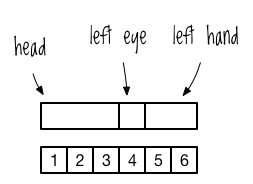
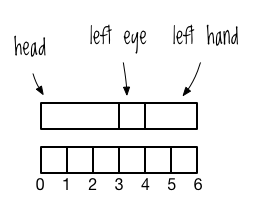
errata

diff --git a/content/cftbat/organization.html b/content/cftbat/organization.html
@@ -268,7 +268,7 @@ kind: chapter
 <span class="tok-p">(</span><span class="tok-kd">defn </span><span class="tok-nv">latlng-&gt;point</span>
   <span class="tok-s">"Convert lat/lng map to comma-separated string"</span> 
   <span class="tok-p">[</span><span class="tok-nv">latlng</span><span class="tok-p">]</span>
-  <span class="tok-p">(</span><span class="tok-nb">str </span><span class="tok-p">(</span><span class="tok-ss">:lng</span> <span class="tok-nv">latlng</span><span class="tok-p">)</span> <span class="tok-s">","</span> <span class="tok-p">(</span><span class="tok-ss">:lat</span> <span class="tok-nv">latlng</span><span class="tok-p">)))</span>
+  <span class="tok-p">(</span><span class="tok-nb">str </span><span class="tok-p">(</span><span class="tok-ss">:lat</span> <span class="tok-nv">latlng</span><span class="tok-p">)</span> <span class="tok-s">","</span> <span class="tok-p">(</span><span class="tok-ss">:lng</span> <span class="tok-nv">latlng</span><span class="tok-p">)))</span>
 
 <span class="tok-p">(</span><span class="tok-kd">defn </span><span class="tok-nv">points</span>
   <span class="tok-p">[</span><span class="tok-nv">locations</span><span class="tok-p">]</span>
@@ -575,18 +575,19 @@ kind: chapter
        <span class="tok-p">(</span><span class="tok-nf">scale</span> <span class="tok-nv">width</span> <span class="tok-nv">height</span><span class="tok-p">)))</span>
 
 <span class="tok-p">(</span><span class="tok-kd">defn </span><span class="tok-nv">xml</span>
-  <span class="tok-s">"svg 'template', which also flips the coordinate system"</span>
+  <span class="tok-s">&quot;svg &#39;template&#39;, which also flips the coordinate system&quot;</span>
   <span class="tok-p">[</span><span class="tok-nv">width</span> <span class="tok-nv">height</span> <span class="tok-nv">locations</span><span class="tok-p">]</span>
-  <span class="tok-p">(</span><span class="tok-nb">str </span><span class="tok-s">"&lt;svg height=\""</span> <span class="tok-nv">height</span> <span class="tok-s">"\" width=\""</span> <span class="tok-nv">width</span> <span class="tok-s">"\"&gt;"</span>
-       <span class="tok-c1">;; These two &lt;g&gt; tags flip the coordinate system</span>
-       <span class="tok-s">"&lt;g transform=\"translate(0,"</span> <span class="tok-nv">height</span> <span class="tok-s">")\"&gt;"</span>
-       <span class="tok-s">"&lt;g transform=\"scale(1,-1)\"&gt;"</span>
+  <span class="tok-p">(</span><span class="tok-nb">str </span><span class="tok-s">&quot;&lt;svg height=\&quot;&quot;</span> <span class="tok-nv">height</span> <span class="tok-s">&quot;\&quot; width=\&quot;&quot;</span> <span class="tok-nv">width</span> <span class="tok-s">&quot;\&quot;&gt;&quot;</span>
+       <span class="tok-c1">;; These two &lt;g&gt; tags change the coordinate system so that</span>
+       <span class="tok-c1">;; 0,0 is in the lower-left corner, instead of SVG&#39;s default</span>
+       <span class="tok-c1">;; upper-left corner</span>
+       <span class="tok-s">&quot;&lt;g transform=\&quot;translate(0,&quot;</span> <span class="tok-nv">height</span> <span class="tok-s">&quot;)\&quot;&gt;&quot;</span>
+       <span class="tok-s">&quot;&lt;g transform=\&quot;rotate(-90)\&quot;&gt;&quot;</span>
        <span class="tok-p">(</span><span class="tok-nb">-&gt; </span><span class="tok-p">(</span><span class="tok-nf">transform</span> <span class="tok-nv">width</span> <span class="tok-nv">height</span> <span class="tok-nv">locations</span><span class="tok-p">)</span>
            <span class="tok-nv">points</span>
            <span class="tok-nv">line</span><span class="tok-p">)</span>
-       <span class="tok-s">"&lt;/g&gt;&lt;/g&gt;"</span>
-       <span class="tok-s">"&lt;/svg&gt;"</span><span class="tok-p">))</span>
-</code></pre></div></div>
+       <span class="tok-s">&quot;&lt;/g&gt;&lt;/g&gt;&quot;</span>
+       <span class="tok-s">&quot;&lt;/svg&gt;&quot;</span><span class="tok-p">))</span></code></pre></div></div>
 
       <p class="Body"><span>The functions here are pretty straightforward. They just take </span><code>{:lat x :lng y}</code><span> maps and transform them so that an SVG can be created. </span><code>latlng-&gt;point</code><span> returns a string that can be used to define a point in SVG markup. </span><code>points</code><span> converts a seq of </span><code>lat</code><span>/</span><code>lng</code><span> maps into a space-separated </span>string of points. <code>line</code> returns the SVG markup for a line that connects all given space-separated strings of points. <code>transform</code> takes a seq of locations, <span>translates them so they start at the point (0, 0), and scales them to the given width and height. Finally, </span><code>xml</code><span> produces the markup for displaying the given locations using SVG.</span></p>
       <p class="Body">With <em>svg.clj</em> all coded up, now make <em>core.clj</em> look like this:</p>

diff --git a/content/cftbat/basic-emacs.html b/content/cftbat/basic-emacs.html
@@ -27,9 +27,9 @@ kind: chapter
       <p class="BodyFirst"><span>I’ve created a repository of</span><span> all the files you need to configure Emacs for Clojure, available at <em><a href="https://github.com/flyingmachine/emacs-for-clojure">https://github.com/flyingmachine/emacs-for-clojure</a></em>. Do </span>the following to delete your existing Emacs configuration and install the Clojure-friendly one:</p>
       <ol class="List-1">
 	<li class="NumListA para-style-override-2">Close Emacs.</li>
-	<li class="NumListB">Delete <em>~/.emacs</em> or <em>~/.emacs.d</em> if they exist. This is where Emacs looks for configuration files, and deleting these files and directories will ensure that you start with a clean slate.</li>
+        <li class="NumListB">Delete <em>~/.emacs</em> or <em>~/.emacs.d</em> if they exist. (Windows users, your emacs files will probably live in <em>C:\Users\your_user_name\AppData\Roaming\</em>. So, for example, you would delete <em>C:\Users\jason\AppData\Roaming\.emacs.d</em>.) This is where Emacs looks for configuration files, and deleting these files and directories will ensure that you start with a clean slate.</li>
 	<li class="NumListB"><span>Download the Emacs configuration zip file from the book’s resource page and unzip it. Its contents should be a folder, </span><em>emacs-for-clojure-book1</em><span>. Run </span><span class="LiteralBold">mv path/to/emacs-for-</span><span class="LiteralBold">clojure</span><span class="LiteralBold">-book1 ~/.emacs.d</span><span>.</span></li>
-	<li class="NumListB">Create the file <em>~/.lein/profiles.clj</em> and add this line to it: </li>
+	<li class="NumListB">Create the file <em>~/.lein/profiles.clj</em> (Windows users, this is probably <em>C:\Users\your_user_name\.lein\profiles.clj</em>) and add this line to it: and add this line to it: </li>
       </ol>
       <div class="listingblock"><div class="content"><pre class="pygments highlight"><code data-lang="clojure" class="block"><span class="tok-p">{</span><span class="tok-ss">:user</span> <span class="tok-p">{</span><span class="tok-ss">:plugins</span> <span class="tok-p">[[</span><span class="tok-nv">cider/cider-nrepl</span> <span class="tok-s">"0.8.1"</span><span class="tok-p">]]}}</span> 
 </code></pre></div></div>
@@ -37,7 +37,7 @@ kind: chapter
       <ol class="List-1" start="5">
 	<li class="NumListC para-style-override-4">Open Emacs.</li>
       </ol>
-      <p class="Body">When you open Emacs, you should see a lot of activity as Emacs downloads a bunch of useful packages. Once the activity stops, go ahead and just quit Emacs, and then open it again. After you do so, you should see a window like the one in Figure 2-3.</p>
+      <p class="Body">When you open Emacs, you may see a lot of activity as Emacs downloads a bunch of useful packages. Once the activity stops, go ahead and just quit Emacs, and then open it again. (If you don't see any activity, that's OK! Quit and restart Emacs just for funsies.) After you do so, you should see a window like the one in Figure 2-3.</p>
       <img src="/assets/images/cftbat/basic-emacs/emacs-configged.png" />
       
 	<div class="caption">Figure 2-3: How Emacs looks after installing your sweet new configuration</div>

diff --git a/content/cftbat/do-things.html b/content/cftbat/do-things.html
@@ -1120,7 +1120,7 @@ kind: chapter
 	</div>
       </div>
       <p class="Body">Finally, one of these numbers is randomly chosen, and then we use <code>loop</code> at ➌ to find and return the body part that corresponds to the number. The loop does this by keeping track of the accumulated sizes of parts that we’ve checked and checking whether the accumulated size is greater than the target. I visualize this process as lining up the body parts with a row of numbered slots. After I line up a body part, I ask myself, “Have I reached the target yet?” If I have, that means the body part I just lined up was the one hit. Otherwise, I just keep lining up those parts.</p>
-      <p class="Body">For example, say that your list of parts is <em>head</em>, <em>left eye</em>, and <em>left hand</em>, like in Figure 3-1. After taking the first part, the head, the accumulated size is 3. The body part is hit if the accumulated size is greater than the target, so if the target is 0, 1, or 2, then the head was hit. Otherwise, you take the next part, the left eye, and increase the accumulated size to 4, yielding a hit if the target is 3. Similarly, the left hand gets hit if the target is 4 or 5. </p>
+      <p class="Body">For example, say that your list of parts is <em>head</em>, <em>left eye</em>, and <em>left hand</em>, like in Figure 3-1. After taking the first part, the head, the accumulated size is 3. The body part is hit when the accumulated sizes exceeds the target, so if the target is less than 3, then the head was hit. Otherwise, you take the next part, the left eye, and increase the accumulated size to 4, yielding a hit if the target is greater than or equal to 3 and less than 4. Similarly, the left hand gets hit if the target is greater than or equal to 4 and less than 6.</p>
       <p class="Body">Here are some sample runs of the <code>hit</code> function:</p>
       <div class="listingblock"><div class="content"><pre class="pygments highlight"><code data-lang="clojure" class="block"><span class="tok-p">(</span><span class="tok-nf">hit</span> <span class="tok-nv">asym-hobbit-body-parts</span><span class="tok-p">)</span>
 <span class="tok-c1">; =&gt; {:name "right-upper-arm", :size 3}</span>

diff --git a/content/cftbat/core-functions-in-depth.html b/content/cftbat/core-functions-in-depth.html
@@ -739,7 +739,7 @@ kind: chapter
        <span class="tok-nv">rows</span><span class="tok-p">))</span>
 </code></pre></div></div>
 
-      <p class="Body"><span>In this function, </span><code>map</code><span> transforms each row—vectors like </span><code>["Bella Swan" 0]</code><span>—</span>into a map by using <code>reduce</code> in a manner similar to the first example in “<code><a href="#2_2__reduce">reduce</a></code>” above. First, <code>map</code> creates a seq of key-value pairs like <code>([:name "Bella Swan"] [:glitter-index] 0)</code>. Then, <code>reduce</code><em> </em>builds up a map by associating a vamp key with a converted vamp value into <code>row-map</code>. Here’s the first row mapified:</p>
+      <p class="Body"><span>In this function, </span><code>map</code><span> transforms each row—vectors like </span><code>["Bella Swan" 0]</code><span>—</span>into a map by using <code>reduce</code> in a manner similar to the first example in “<code><a href="#2_2__reduce">reduce</a></code>” above. First, <code>map</code> creates a seq of key-value pairs like <code>([:name "Bella Swan"] [:glitter-index 0])</code>. Then, <code>reduce</code><em> </em>builds up a map by associating a vamp key with a converted vamp value into <code>row-map</code>. Here’s the first row mapified:</p>
       <div class="listingblock"><div class="content"><pre class="pygments highlight"><code data-lang="clojure" class="block"><span class="tok-p">(</span><span class="tok-nb">first </span><span class="tok-p">(</span><span class="tok-nf">mapify</span> <span class="tok-p">(</span><span class="tok-nb">parse </span><span class="tok-p">(</span><span class="tok-nb">slurp </span><span class="tok-nv">filename</span><span class="tok-p">))))</span>
 <span class="tok-c1">; =&gt; {:glitter-index 10, :name "Edward Cullen"}</span>
 </code></pre></div></div>

diff --git a/content/cftbat/zombie-metaphysics.html b/content/cftbat/zombie-metaphysics.html
@@ -566,8 +566,7 @@ kind: chapter
           <span class="tok-nv">.start</span>
           <span class="tok-nv">.join</span><span class="tok-p">))</span>
 </code></pre></div></div>
-
-      <p class="Body">Using <code>with-redefs</code> may be more appropriate than using <code>bindings</code> for setting up a test environment. It’s also more widely applicable, in that you can use it for any var, not just dynamic ones.</p>
+      <p class="Body"><code>with-redefs</code> can be used with any var, not just dynamic ones. Because it has has such far-reaching effects, you should only use it during testing. For example, you could use it to redefine a function that returns data from a network call, so that the function returns mock data without having to actually make a network request.</p>
       <p class="Body">Now you know all about vars! Try not to hurt yourself or anyone you know with them.</p>
       <h2>Stateless Concurrency and Parallelism with pmap</h2>
       <p class="BodyFirst"><span>So far, this chapter has focused on tools that are designed to mitigate the risks inherent in concurrent programming. You’ve learned about the </span><span>dangers</span><span> born of shared access to mutable state and how Clojure implements </span>a reconceptualization of state that helps you write concurrent programs safely.</p>

diff --git a/content/cftbat/functional-programming.html b/content/cftbat/functional-programming.html
@@ -595,7 +595,7 @@ kind: chapter
       
 	<div class="caption">Figure 5-4: A pegboard with the 4 position empty</div>
       
-      <p class="Body"><span>Given this board, positions 1, 6, and 11 have valid moves, but all </span>others don’t:</p>
+      <p class="Body"><span>Given this board, positions 1, 6, 11, and 13 have valid moves, but all </span>others don’t:</p>
       <div class="listingblock"><div class="content"><pre class="pygments highlight"><code data-lang="clojure" class="block"><span class="tok-p">(</span><span class="tok-nf">valid-moves</span> <span class="tok-nv">my-board</span> <span class="tok-mi">1</span><span class="tok-p">)</span>  <span class="tok-c1">; =&gt; {4 2}</span>
 <span class="tok-p">(</span><span class="tok-nf">valid-moves</span> <span class="tok-nv">my-board</span> <span class="tok-mi">6</span><span class="tok-p">)</span>  <span class="tok-c1">; =&gt; {4 5}</span>
 <span class="tok-p">(</span><span class="tok-nf">valid-moves</span> <span class="tok-nv">my-board</span> <span class="tok-mi">11</span><span class="tok-p">)</span> <span class="tok-c1">; =&gt; {4 7}</span>
